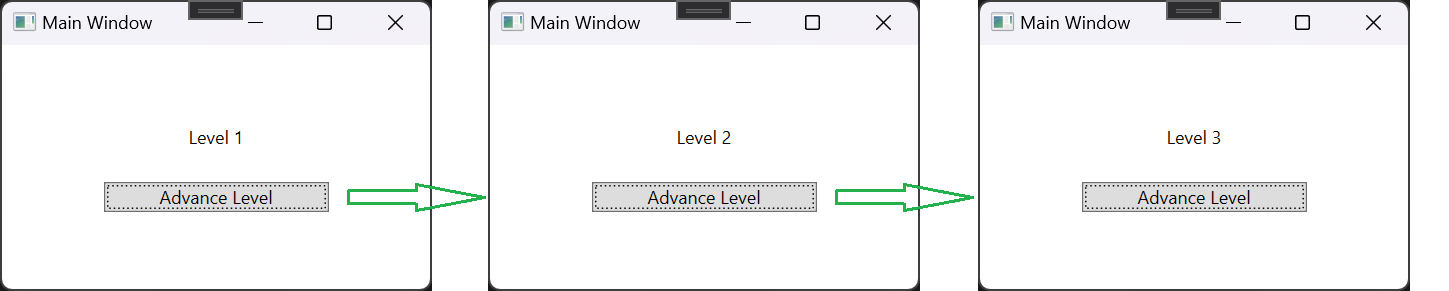
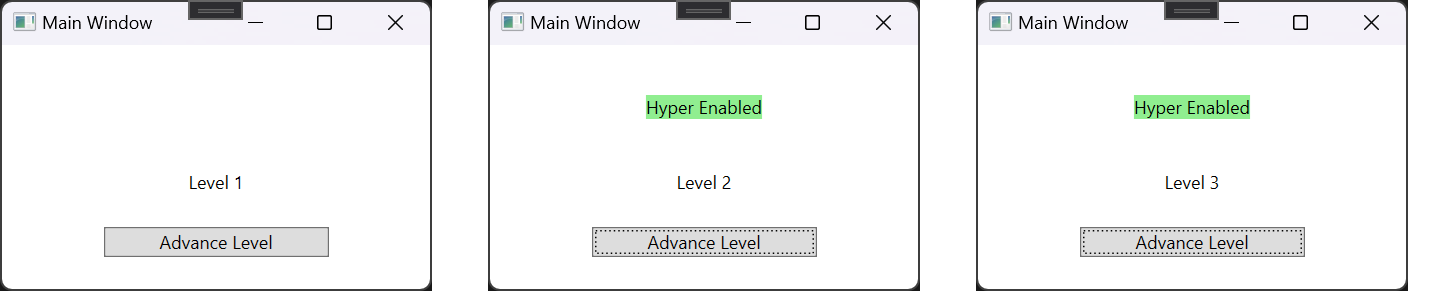
readme++

diff --git a/when-to-use-enumerated/MainWindow.xaml b/when-to-use-enumerated/MainWindow.xaml
@@ -9,26 +9,35 @@
         Title="Main Window" Height="200" Width="300" WindowStartupLocation="CenterScreen">
     <Window.Resources>
         <local:PriorityLevelToFormatted x:Key="PriorityLevelConverter"/>
+        <local:PriorityLevelToVisibility x:Key="PriorityLevelToHyper"/>
     </Window.Resources>
     <Grid>
         <Grid.RowDefinitions>
             <RowDefinition Height="*"/>
+            <RowDefinition Height="60"/>
             <RowDefinition Height="40"/>
             <RowDefinition Height="40"/>
             <RowDefinition Height="*"/>
         </Grid.RowDefinitions>
         <TextBlock 
-            Name ="textLevel"
-            Text="{Binding Path=PriorityLevel, Converter={StaticResource PriorityLevelConverter}}"
+            Visibility="{Binding Path=PLevel, Converter={StaticResource PriorityLevelToHyper}}"
+            Text="Hyper Enabled"
             VerticalAlignment="Center"
             HorizontalAlignment="Center"
+            Background="LightGreen"
             Grid.Row="1"/>
+        <TextBlock 
+            Name ="textLevel"
+            Text="{Binding Path=PLevel, Converter={StaticResource PriorityLevelConverter}}"
+            VerticalAlignment="Center"
+            HorizontalAlignment="Center"
+            Grid.Row="2"/>
         <Button
             Command="{Binding AdvancePriorityCommand}"
             VerticalAlignment="Center"
             HorizontalAlignment="Center"
             Width="150"
-            Grid.Row="2">
+            Grid.Row="3">
             <TextBlock>Advance Level</TextBlock>
         </Button>
     </Grid>

diff --git a/when-to-use-enumerated/MainWindow.xaml.cs b/when-to-use-enumerated/MainWindow.xaml.cs
@@ -27,15 +27,15 @@ namespace wpf_window_ex
         {
             AdvancePriorityCommand = new Command(OnAdvancePriority);
         }
-        int _PriorityLevel = 1;
-        public int PriorityLevel
+        int _pLevel = 1;
+        public int PLevel
         {
-            get => _PriorityLevel;
+            get => _pLevel;
             set
             {
-                if (!Equals(_PriorityLevel, value))
+                if (!Equals(_pLevel, value))
                 {
-                    _PriorityLevel = value;
+                    _pLevel = value;
                     OnPropertyChanged();
                 }
             }
@@ -44,13 +44,13 @@ namespace wpf_window_ex
         private void OnAdvancePriority(object o)
         {
             // Advance to 2, then to three, then wrap around to 1
-            if(PriorityLevel == 3)
+            if(PLevel == 3)
             {
-                PriorityLevel = 1;
+                PLevel = 1;
             }
             else
             {
-                PriorityLevel++;
+                PLevel++;
             }
         }
         public event PropertyChangedEventHandler PropertyChanged;
@@ -64,6 +64,13 @@ namespace wpf_window_ex
     {
         public object Convert(object value, Type targetType, object parameter, CultureInfo culture) 
             => $"Level {(int)value}";
+        public object ConvertBack(object value, Type targetType, object parameter, CultureInfo culture) =>
+            throw new NotImplementedException("Unused");
+    }
+    public class PriorityLevelToVisibility : IValueConverter
+    {
+        public object Convert(object value, Type targetType, object parameter, CultureInfo culture)
+            => (int)value == 1 ? Visibility.Hidden : Visibility.Visible;
         public object ConvertBack(object value, Type targetType, object parameter, CultureInfo culture) =>
             throw new NotImplementedException("Unused");
     }

diff --git a/README.md b/README.md
@@ -1,10 +1,10 @@
 Your question is **When to use an enumerated in C#** and one way to look at this is asking whether assigning a human-readable alias for a value provides some kind of benefit (or not). 
 
-Your question states that you have a binding of the `PriorityLevel` (expressed as an enum or possibly just an int) to a UI element in the XAML.
+I see that that you have answered your own question with a simple and elegant way to format the string based on `PLevel` after "changing the Priority property of the object to `int` type" (which makes sense) which solves your question as stated with regards to the _binding_:
 
 > My problem is when I show that property in the interface (**with a binding in the XAML**), it appears as (obviously) "LEVEL1" or "LEVEL2" or "LEVEL3". I'm interested in knowing how to display "LEVEL 1" (with a space) instead of displaying "LEVEL1".
 
-As I understand it, your goal is to display (for example) the values of 1, 2, 3 as "Level 1", "Level 2", and "Level 3" in response to changes in the `PriorityLevel` property. One xaml-friendly approach that will work with either an `int` _or_ an `enum`is to make an implementation of `IValueConverter` class and invoke it in the xaml as `Text="{Binding Path=PriorityLevel, Converter={StaticResource PriorityLevelConverter}}"`.
+One xaml-friendly approach that _also_ solves the question, works with either `int` or with `enum`, and provides more flexibility is to make an implementation of `IValueConverter` class and invoke it in the xaml as `Text="{Binding Path=PriorityLevel, Converter={StaticResource PriorityLevelConverter}}"`.
 
     // Returns a formatted version of PriorityLevel.
     // Works for EITHER int or enum
@@ -16,7 +16,10 @@ As I understand it, your goal is to display (for example) the values of 1, 2, 3 
             throw new NotImplementedException("Unused");
     }
 
-I [tested](https://github.com/IVSoftware/ivalueconverter-for-wpf-int-to-string-binding.git) this answer with a minimal WPF form that handles a button click by advancing the `PriorityLevel`.
+To demonstrate what I mean, I [tested](https://github.com/IVSoftware/ivalueconverter-for-wpf-int-to-string-binding.git) this answer with a minimal WPF form that in one case converts `PLevel` to a formatted string, and in another case converts `PLevel` to a `Visibility` for purposes of show/hide based on `PLevel`.
+
+
+[![click response][1]][1]
 
     <iv:Window x:Class="wpf_window_ex.MainWindow"
             xmlns="http://schemas.microsoft.com/winfx/2006/xaml/presentation"
@@ -54,7 +57,6 @@ I [tested](https://github.com/IVSoftware/ivalueconverter-for-wpf-int-to-string-b
         </Grid>
     </iv:Window>
 
-[![click response][1]][1]
 
 
-  [1]: https://i.stack.imgur.com/yvX1C.png
+  [1]: https://i.stack.imgur.com/ZzIGu.png
